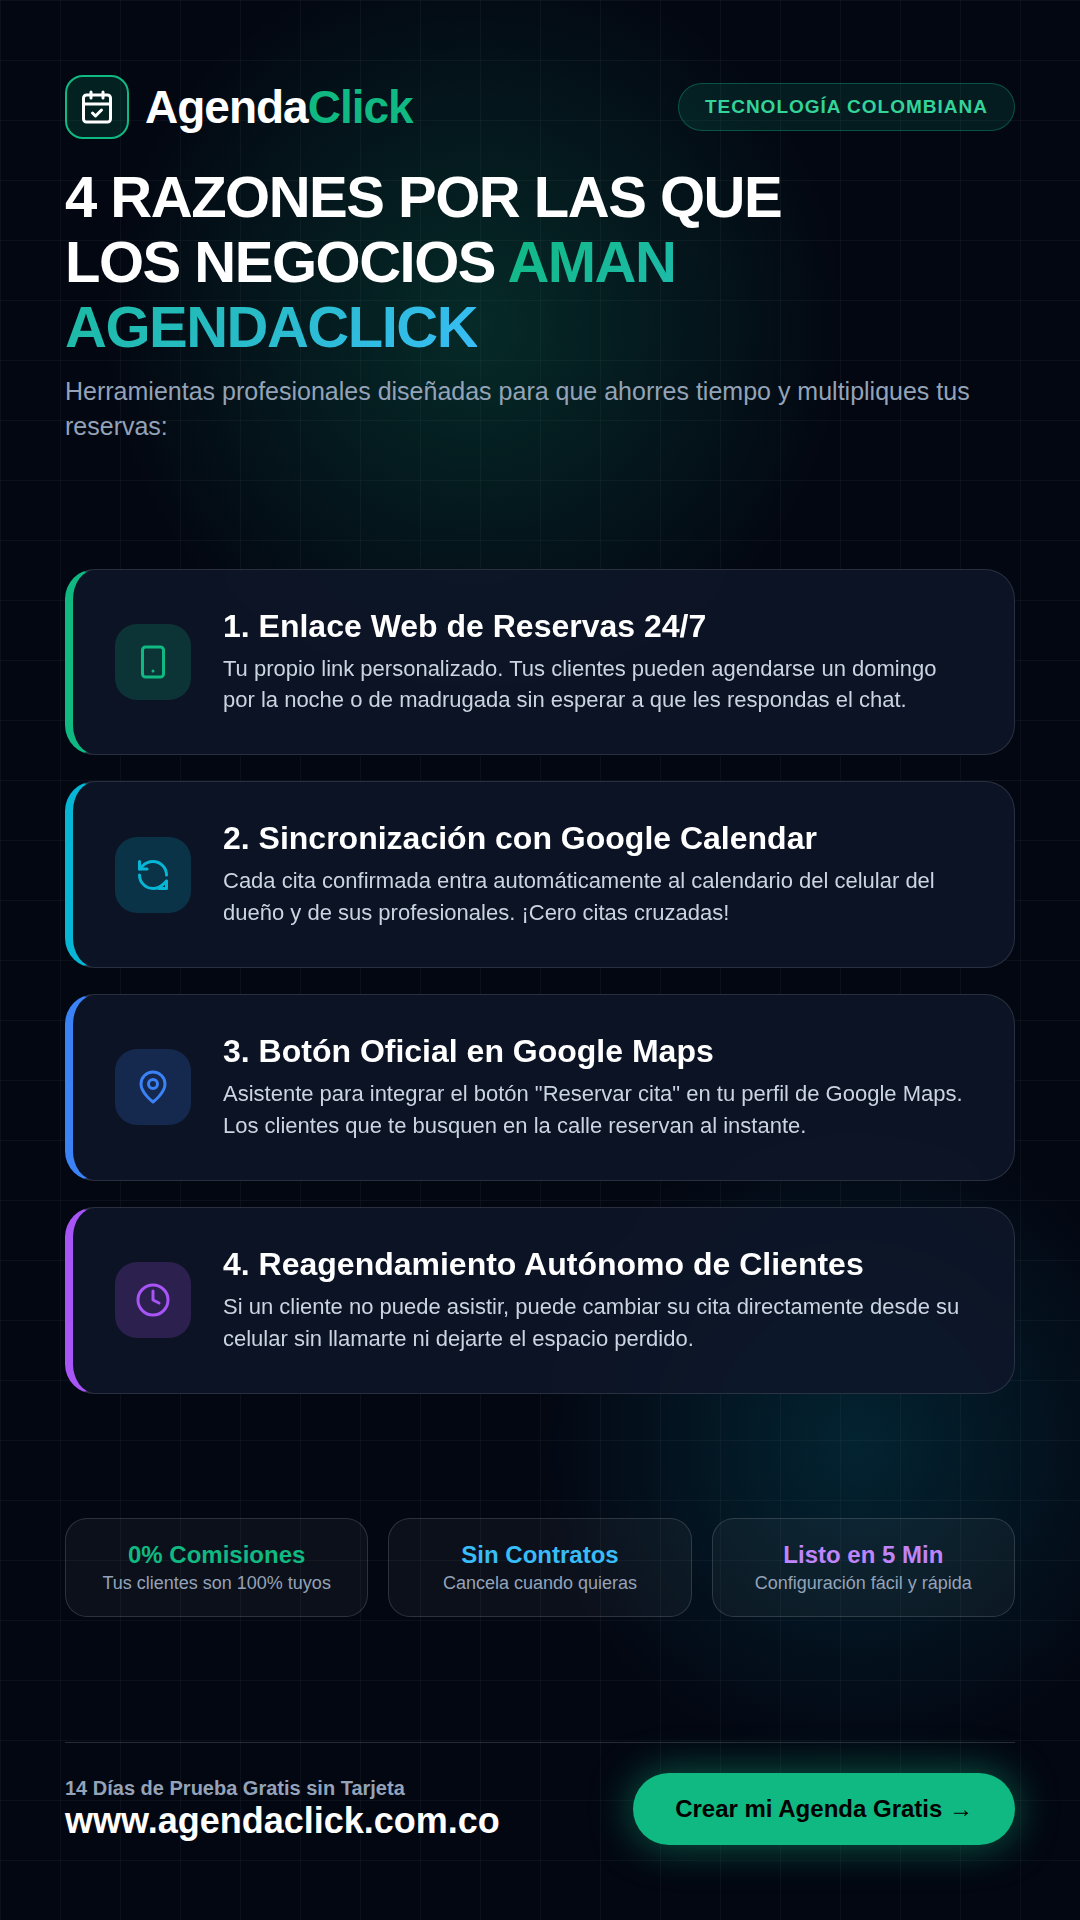
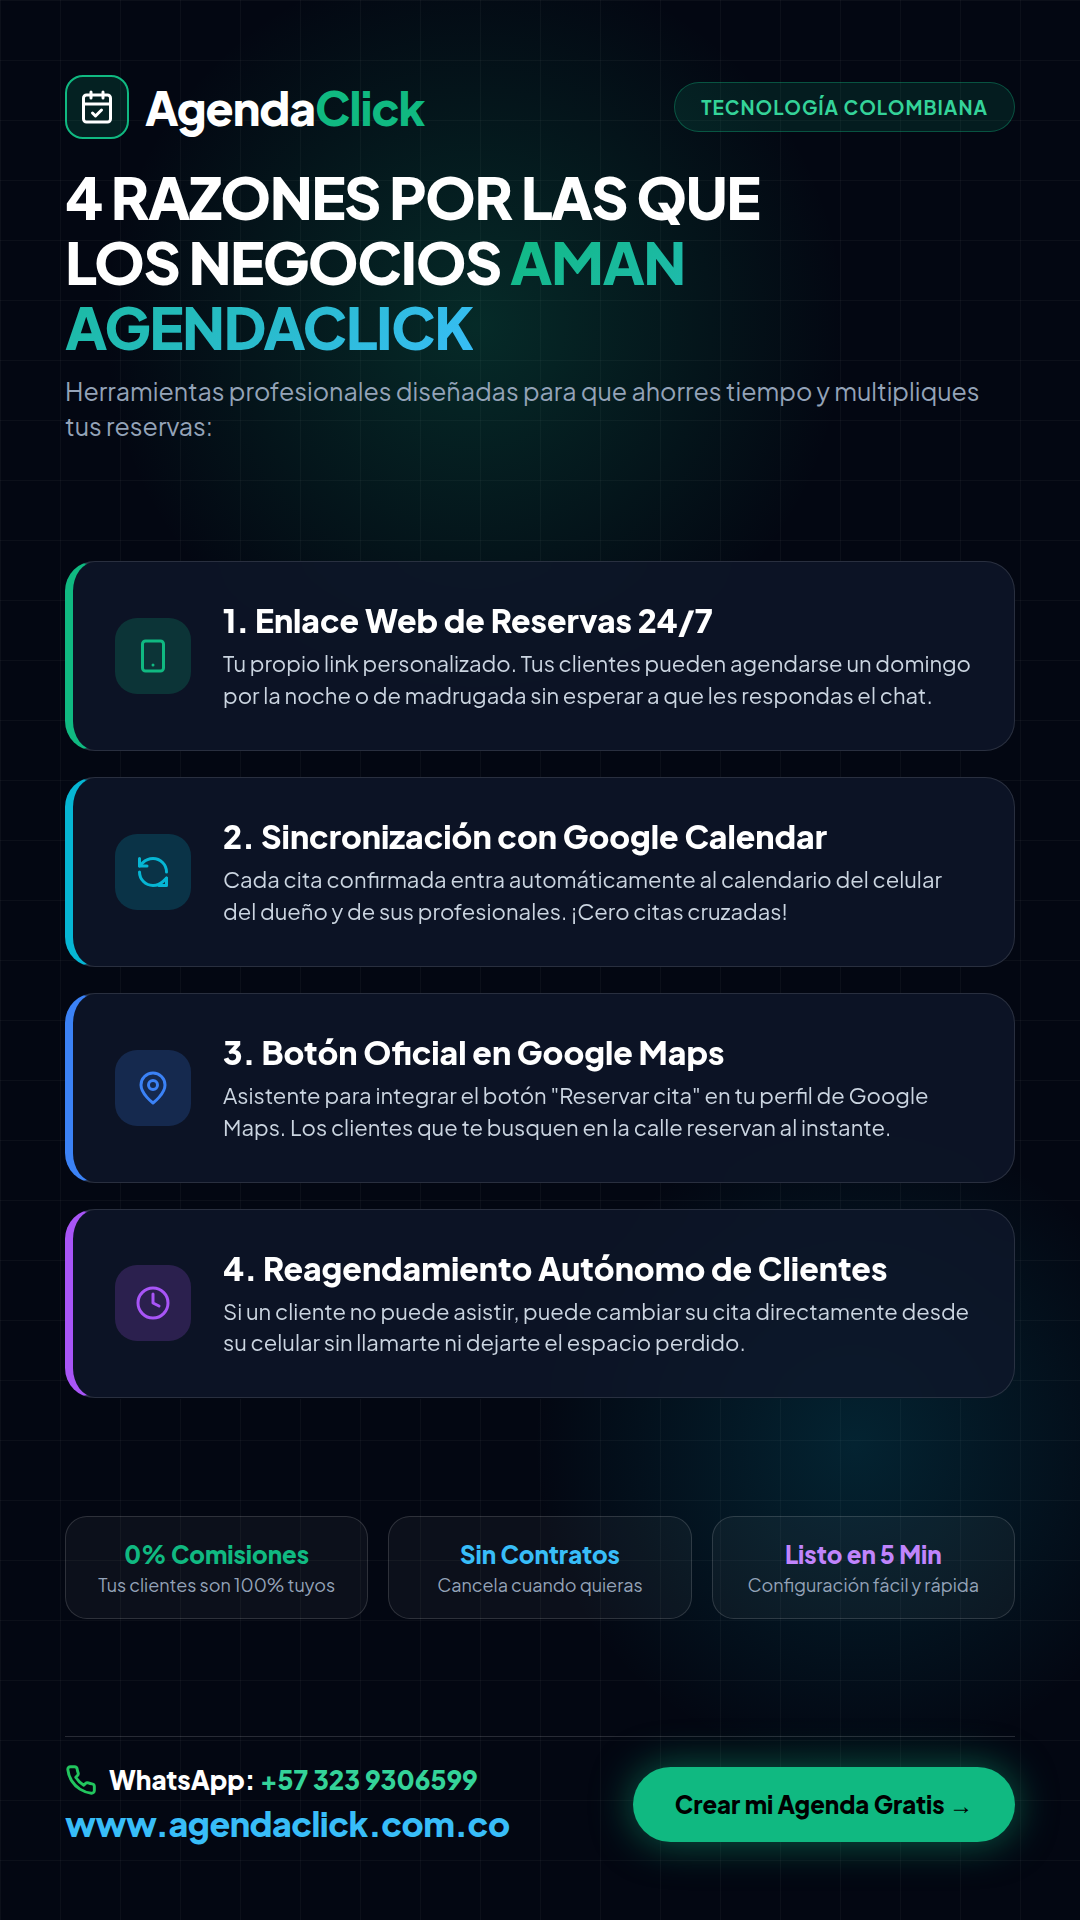
feat(marketing): actualizar imagenes promocionales con numero WhatsApp +57 323 9306599

diff --git a/scripts/generate_promo_flyers.py b/scripts/generate_promo_flyers.py
@@ -3,8 +3,10 @@ import os
 import subprocess
 import tempfile
 
-OUTPUT_DIR = "/home/rocua/Proyectos/AgendaClick/public/promos/explicacion"
-os.makedirs(OUTPUT_DIR, exist_ok=True)
+EXPLICACION_DIR = "/home/rocua/Proyectos/AgendaClick/public/promos/explicacion"
+SOCIOS_DIR = "/home/rocua/Proyectos/AgendaClick/public/promos/socios"
+os.makedirs(EXPLICACION_DIR, exist_ok=True)
+os.makedirs(SOCIOS_DIR, exist_ok=True)
 
 # Common SVG icons
 CALENDAR_SVG = """<svg xmlns="http://www.w3.org/2000/svg" width="36" height="36" viewBox="0 0 24 24" fill="none" stroke="currentColor" stroke-width="2" stroke-linecap="round" stroke-linejoin="round" class="text-emerald-400"><rect width="18" height="18" x="3" y="4" rx="2" ry="2"/><line x1="16" x2="16" y1="2" y2="6"/><line x1="8" x2="8" y1="2" y2="6"/><line x1="3" x2="21" y1="10" y2="10"/><path d="m9 16 2 2 4-4"/></svg>"""
@@ -15,6 +17,7 @@ PHONE_SVG = """<svg xmlns="http://www.w3.org/2000/svg" width="36" height="36" vi
 MAP_SVG = """<svg xmlns="http://www.w3.org/2000/svg" width="36" height="36" viewBox="0 0 24 24" fill="none" stroke="#3b82f6" stroke-width="2" stroke-linecap="round" stroke-linejoin="round"><path d="M20 10c0 6-8 12-8 12s-8-6-8-12a8 8 0 0 1 16 0Z"/><circle cx="12" cy="10" r="3"/></svg>"""
 SYNC_SVG = """<svg xmlns="http://www.w3.org/2000/svg" width="36" height="36" viewBox="0 0 24 24" fill="none" stroke="#06b6d4" stroke-width="2" stroke-linecap="round" stroke-linejoin="round"><path d="M21 12a9 9 0 0 0-9-9 9.75 9.75 0 0 0-6.74 2.74L3 8"/><path d="M3 3v5h5"/><path d="M3 12a9 9 0 0 0 9 9 9.75 9.75 0 0 0 6.74-2.74L21 16"/><path d="M16 21h5v-5"/></svg>"""
 SPARKLE_SVG = """<svg xmlns="http://www.w3.org/2000/svg" width="24" height="24" viewBox="0 0 24 24" fill="none" stroke="#10b981" stroke-width="2" stroke-linecap="round" stroke-linejoin="round"><path d="m12 3-1.912 5.813a2 2 0 0 1-1.275 1.275L3 12l5.813 1.912a2 2 0 0 1 1.275 1.275L12 21l1.912-5.813a2 2 0 0 1 1.275-1.275L21 12l-5.813-1.912a2 2 0 0 1-1.275-1.275L12 3Z"/></svg>"""
+WHATSAPP_ICON = """<svg xmlns="http://www.w3.org/2000/svg" width="32" height="32" viewBox="0 0 24 24" fill="none" stroke="#22c55e" stroke-width="2.2" stroke-linecap="round" stroke-linejoin="round"><path d="M22 16.92v3a2 2 0 0 1-2.18 2 19.79 19.79 0 0 1-8.63-3.07 19.5 19.5 0 0 1-6-6 19.79 19.79 0 0 1-3.07-8.67A2 2 0 0 1 4.11 2h3a2 2 0 0 1 2 1.72 12.84 12.84 0 0 0 .7 2.81 2 2 0 0 1-.45 2.11L8.09 9.91a16 16 0 0 0 6 6l1.27-1.27a2 2 0 0 1 2.11-.45 12.84 12.84 0 0 0 2.81.7A2 2 0 0 1 22 16.92z"/></svg>"""
 
 COMMON_HEAD = """
 <head>
@@ -91,6 +94,23 @@ COMMON_HEAD = """
   </style>
 </head>
 """
+
+def make_footer(cta_btn_text="14 Días Gratis →", url_text="www.agendaclick.com.co"):
+    return f"""
+    <!-- FOOTER CON WHATSAPP Y ENLACE -->
+    <div style="border-top: 1.5px solid rgba(255, 255, 255, 0.15); padding-top: 26px; display: flex; justify-content: space-between; align-items: center;">
+      <div>
+        <div style="display: flex; align-items: center; gap: 12px; margin-bottom: 6px;">
+          {WHATSAPP_ICON}
+          <span style="font-size: 26px; font-weight: 800; color: #ffffff;">WhatsApp: <strong style="color: #34d399;">+57 323 9306599</strong></span>
+        </div>
+        <p style="font-size: 34px; font-weight: 900; color: #38bdf8; letter-spacing: -0.5px;">{url_text}</p>
+      </div>
+      <div style="background: #10b981; color: #000000; font-size: 24px; font-weight: 900; padding: 22px 42px; border-radius: 9999px; box-shadow: 0 0 40px rgba(16,185,129,0.5);">
+        {cta_btn_text}
+      </div>
+    </div>
+    """
 
 # ==========================================
 # FLYER 1: ¿CÓMO FUNCIONA AGENDACLICK?
@@ -209,16 +229,7 @@ HTML_FLYER_1 = f"""<!DOCTYPE html>
       <div style="font-size: 38px;">⚡</div>
     </div>
 
-    <!-- FOOTER CTA -->
-    <div style="border-top: 1px solid rgba(255, 255, 255, 0.15); padding-top: 30px; display: flex; justify-content: space-between; align-items: center;">
-      <div>
-        <p style="font-size: 20px; color: #94a3b8; font-weight: 600;">14 Días de Prueba Gratis sin Tarjeta</p>
-        <p style="font-size: 36px; font-weight: 900; color: #ffffff; letter-spacing: -0.5px;">www.agendaclick.com.co</p>
-      </div>
-      <div style="background: #10b981; color: #000000; font-size: 24px; font-weight: 900; padding: 22px 42px; border-radius: 9999px; box-shadow: 0 0 40px rgba(16,185,129,0.5);">
-        Probar Gratis →
-      </div>
-    </div>
+    {make_footer("14 Días Gratis →", "www.agendaclick.com.co")}
 
   </div>
 </body>
@@ -327,7 +338,7 @@ HTML_FLYER_2 = f"""<!DOCTYPE html>
 
     </div>
 
-    <!-- MOCKUP TESTIMONIAL / BENEFICIO VISUAL -->
+    <!-- MOCKUP BENEFICIO VISUAL -->
     <div style="display: flex; gap: 20px;">
       <div class="card-glass" style="flex: 1; padding: 26px 30px; border-color: rgba(16, 185, 129, 0.4); text-align: center;">
         <p style="font-size: 38px; font-weight: 900; color: #10b981; margin-bottom: 2px;">+30%</p>
@@ -346,16 +357,7 @@ HTML_FLYER_2 = f"""<!DOCTYPE html>
       </div>
     </div>
 
-    <!-- FOOTER CTA -->
-    <div style="border-top: 1px solid rgba(255, 255, 255, 0.15); padding-top: 30px; display: flex; justify-content: space-between; align-items: center;">
-      <div>
-        <p style="font-size: 20px; color: #94a3b8; font-weight: 600;">Configuración en menos de 5 minutos</p>
-        <p style="font-size: 36px; font-weight: 900; color: #ffffff;">www.agendaclick.com.co</p>
-      </div>
-      <div style="background: #10b981; color: #000000; font-size: 24px; font-weight: 900; padding: 22px 42px; border-radius: 9999px; box-shadow: 0 0 40px rgba(16,185,129,0.5);">
-        Probar 14 Días Gratis →
-      </div>
-    </div>
+    {make_footer("Probar 14 Días Gratis →", "www.agendaclick.com.co")}
 
   </div>
 </body>
@@ -468,16 +470,7 @@ HTML_FLYER_3 = f"""<!DOCTYPE html>
       <span style="background: #10b981; color: #000; font-size: 20px; font-weight: 900; padding: 12px 26px; border-radius: 12px;">100% Online</span>
     </div>
 
-    <!-- FOOTER CTA -->
-    <div style="border-top: 1px solid rgba(255, 255, 255, 0.15); padding-top: 30px; display: flex; justify-content: space-between; align-items: center;">
-      <div>
-        <p style="font-size: 20px; color: #94a3b8; font-weight: 600;">14 Días de Prueba Gratis sin Tarjeta</p>
-        <p style="font-size: 36px; font-weight: 900; color: #ffffff;">www.agendaclick.com.co</p>
-      </div>
-      <div style="background: #10b981; color: #000000; font-size: 24px; font-weight: 900; padding: 22px 42px; border-radius: 9999px; box-shadow: 0 0 40px rgba(16,185,129,0.5);">
-        Comenzar Gratis →
-      </div>
-    </div>
+    {make_footer("Comenzar Gratis →", "www.agendaclick.com.co")}
 
   </div>
 </body>
@@ -592,16 +585,211 @@ HTML_FLYER_4 = f"""<!DOCTYPE html>
       </div>
     </div>
 
-    <!-- FOOTER CTA -->
-    <div style="border-top: 1px solid rgba(255, 255, 255, 0.15); padding-top: 30px; display: flex; justify-content: space-between; align-items: center;">
-      <div>
-        <p style="font-size: 20px; color: #94a3b8; font-weight: 600;">14 Días de Prueba Gratis sin Tarjeta</p>
-        <p style="font-size: 36px; font-weight: 900; color: #ffffff;">www.agendaclick.com.co</p>
+    {make_footer("Crear mi Agenda Gratis →", "www.agendaclick.com.co")}
+
+  </div>
+</body>
+</html>
+"""
+
+# ==========================================
+# FLYER SOCIOS 1: LA FÓRMULA DEL 70%
+# ==========================================
+HTML_SOCIOS_1 = f"""<!DOCTYPE html>
+<html>
+{COMMON_HEAD}
+<body>
+  <div class="grid-bg"></div>
+  <div class="glow-emerald" style="top: -100px; right: -150px;"></div>
+  <div class="glow-cyan" style="bottom: 250px; left: -100px;"></div>
+
+  <div style="padding: 75px 65px; height: 100%; display: flex; flex-direction: column; justify-content: space-between; position: relative; z-index: 10;">
+    
+    <!-- HEADER -->
+    <div>
+      <div style="display: flex; justify-content: space-between; align-items: center; margin-bottom: 26px;">
+        <div class="brand-title">
+          <div style="width: 64px; height: 64px; border-radius: 18px; background: rgba(16, 185, 129, 0.15); border: 2px solid #10b981; display: flex; align-items: center; justify-content: center;">
+            {CALENDAR_SVG}
+          </div>
+          <span style="font-size: 46px; font-weight: 900; letter-spacing: -1px;">Agenda<span style="color: #10b981;">Click</span></span>
+        </div>
+        <div class="badge-pill">
+          {SPARKLE_SVG}
+          Distribuidores Oficiales
+        </div>
       </div>
-      <div style="background: #10b981; color: #000000; font-size: 24px; font-weight: 900; padding: 22px 42px; border-radius: 9999px; box-shadow: 0 0 40px rgba(16,185,129,0.5);">
-        Crear mi Agenda Gratis →
+
+      <h1 style="font-size: 58px; font-weight: 900; line-height: 1.12; letter-spacing: -1.5px; margin-bottom: 14px;">
+        ¿CÓMO SE CALCULA <br>TU <span class="gradient-text">70% DE COMISIÓN?</span>
+      </h1>
+      <p style="font-size: 25px; color: #94a3b8; line-height: 1.4; max-width: 950px;">
+        Cifras reales en Pesos Colombianos. Sin multinivel ni trucos: software real que los negocios pagan mes a mes.
+      </p>
+    </div>
+
+    <!-- 3 PASOS DE LA FÓRMULA -->
+    <div style="display: flex; flex-direction: column; gap: 26px;">
+      
+      <!-- PASO 1 -->
+      <div class="card-glass" style="padding: 36px 42px; border-left: 8px solid #10b981; display: flex; align-items: center; gap: 30px;">
+        <div style="min-width: 76px; height: 76px; border-radius: 22px; background: rgba(16, 185, 129, 0.2); border: 2.5px solid #10b981; display: flex; align-items: center; justify-content: center; font-size: 36px; font-weight: 900; color: #10b981;">
+          1
+        </div>
+        <div style="flex: 1;">
+          <h3 style="font-size: 30px; font-weight: 800; color: #ffffff; margin-bottom: 6px;">Recomiendas AgendaClick</h3>
+          <p style="font-size: 21px; color: #cbd5e1; line-height: 1.45;">
+            Le regalas 14 días de prueba gratis a una peluquería, barbería, cancha sintética o consultorio de tu ciudad.
+          </p>
+        </div>
+      </div>
+
+      <!-- PASO 2 -->
+      <div class="card-glass" style="padding: 36px 42px; border-left: 8px solid #06b6d4; display: flex; align-items: center; gap: 30px;">
+        <div style="min-width: 76px; height: 76px; border-radius: 22px; background: rgba(6, 182, 212, 0.2); border: 2.5px solid #06b6d4; display: flex; align-items: center; justify-content: center; font-size: 36px; font-weight: 900; color: #06b6d4;">
+          2
+        </div>
+        <div style="flex: 1;">
+          <h3 style="font-size: 30px; font-weight: 800; color: #ffffff; margin-bottom: 6px;">El Negocio Paga su Suscripción</h3>
+          <p style="font-size: 21px; color: #cbd5e1; line-height: 1.45;">
+            El negocio paga su mensualidad de <strong style="color: #38bdf8;">$349.000 COP al mes</strong> para seguir recibiendo reservas automáticas.
+          </p>
+        </div>
+      </div>
+
+      <!-- PASO 3 -->
+      <div class="card-glass" style="padding: 36px 42px; border-left: 8px solid #a855f7; display: flex; align-items: center; gap: 30px;">
+        <div style="min-width: 76px; height: 76px; border-radius: 22px; background: rgba(168, 85, 247, 0.2); border: 2.5px solid #a855f7; display: flex; align-items: center; justify-content: center; font-size: 36px; font-weight: 900; color: #a855f7;">
+          3
+        </div>
+        <div style="flex: 1;">
+          <h3 style="font-size: 30px; font-weight: 800; color: #ffffff; margin-bottom: 6px;">¡Recibes el 70% de Comisión!</h3>
+          <p style="font-size: 21px; color: #cbd5e1; line-height: 1.45;">
+            Te corresponden <strong style="color: #34d399;">$244.300 COP mensuales</strong> por cada negocio, mientras mantenga su plan activo.
+          </p>
+        </div>
+      </div>
+
+    </div>
+
+    <!-- TARJETA DESTACADA: 5 NEGOCIOS = SUELDO RECURRENTE -->
+    <div style="background: linear-gradient(135deg, rgba(16, 185, 129, 0.2) 0%, rgba(6, 182, 212, 0.12) 100%); border: 3px solid #10b981; border-radius: 30px; padding: 36px 42px; box-shadow: 0 0 50px rgba(16,185,129,0.25);">
+      <div style="display: flex; justify-content: space-between; align-items: center; margin-bottom: 12px;">
+        <span style="font-size: 20px; font-weight: 900; text-transform: uppercase; color: #34d399; letter-spacing: 1px;">
+          Meta Real de Ingresos Pasivos
+        </span>
+        <span style="background: #10b981; color: #000; font-size: 16px; font-weight: 900; padding: 6px 16px; border-radius: 8px;">
+          RECURRENTE
+        </span>
+      </div>
+      <p style="font-size: 38px; font-weight: 900; color: #ffffff; margin-bottom: 8px;">
+        Con solo 5 negocios ganas: <span style="color: #34d399;">$1.221.500 COP/mes</span>
+      </p>
+      <p style="font-size: 21px; color: #cbd5e1;">
+        Consignaciones automáticas a Nequi, Daviplata o Cuenta Bancaria.
+      </p>
+    </div>
+
+    {make_footer("Quiero ser Distribuidor →", "agendaclick.com.co/socios")}
+
+  </div>
+</body>
+</html>
+"""
+
+# ==========================================
+# FLYER SOCIOS 2: TABLA DE INGRESOS
+# ==========================================
+HTML_SOCIOS_2 = f"""<!DOCTYPE html>
+<html>
+{COMMON_HEAD}
+<body>
+  <div class="grid-bg"></div>
+  <div class="glow-emerald" style="bottom: 100px; right: -100px;"></div>
+  <div class="glow-cyan" style="top: -100px; left: -100px;"></div>
+
+  <div style="padding: 75px 65px; height: 100%; display: flex; flex-direction: column; justify-content: space-between; position: relative; z-index: 10;">
+    
+    <!-- HEADER -->
+    <div>
+      <div style="display: flex; justify-content: space-between; align-items: center; margin-bottom: 26px;">
+        <div class="brand-title">
+          <div style="width: 64px; height: 64px; border-radius: 18px; background: rgba(16, 185, 129, 0.15); border: 2px solid #10b981; display: flex; align-items: center; justify-content: center;">
+            {CALENDAR_SVG}
+          </div>
+          <span style="font-size: 46px; font-weight: 900; letter-spacing: -1px;">Agenda<span style="color: #10b981;">Click</span></span>
+        </div>
+        <div class="badge-pill">
+          Distribuidores Comerciales
+        </div>
+      </div>
+
+      <h1 style="font-size: 56px; font-weight: 900; line-height: 1.12; letter-spacing: -1.5px; margin-bottom: 14px;">
+        TU CARTERA DE CLIENTES = <br><span class="gradient-text">TU SUELDO PASIVO MENSUAL</span>
+      </h1>
+      <p style="font-size: 25px; color: #94a3b8; line-height: 1.4;">
+        Ganas el 70% recurrente de cada negocio (<strong style="color: #34d399;">$244.300 COP/mes</strong> por cliente activo):
+      </p>
+    </div>
+
+    <!-- TABLA DE INGRESOS PASIVOS EN 4 TARJETAS -->
+    <div style="display: flex; flex-direction: column; gap: 20px;">
+      
+      <div class="card-glass" style="padding: 30px 40px; display: flex; justify-content: space-between; align-items: center; border-left: 8px solid #94a3b8;">
+        <div>
+          <p style="font-size: 30px; font-weight: 800; color: #ffffff;">3 Negocios Activos</p>
+          <p style="font-size: 18px; color: #94a3b8;">Ingreso extra para tus gastos</p>
+        </div>
+        <div style="font-size: 36px; font-weight: 900; color: #38bdf8;">
+          $732.900 COP <span style="font-size: 20px; color: #94a3b8; font-weight: 600;">/ mes</span>
+        </div>
+      </div>
+
+      <div class="card-glass" style="padding: 30px 40px; display: flex; justify-content: space-between; align-items: center; border-left: 8px solid #10b981; background: rgba(16, 185, 129, 0.12); border-color: rgba(16, 185, 129, 0.4);">
+        <div>
+          <div style="display: flex; align-items: center; gap: 12px; margin-bottom: 4px;">
+            <p style="font-size: 32px; font-weight: 900; color: #ffffff;">5 Negocios Activos</p>
+            <span style="background: #10b981; color: #000; font-size: 14px; font-weight: 900; padding: 4px 10px; border-radius: 6px;">SUELDO MENSUAL</span>
+          </div>
+          <p style="font-size: 19px; color: #cbd5e1;">Equivale a un salario mínimo mensual garantizado</p>
+        </div>
+        <div style="font-size: 40px; font-weight: 900; color: #34d399;">
+          $1.221.500 COP <span style="font-size: 20px; color: #cbd5e1; font-weight: 600;">/ mes</span>
+        </div>
+      </div>
+
+      <div class="card-glass" style="padding: 30px 40px; display: flex; justify-content: space-between; align-items: center; border-left: 8px solid #06b6d4;">
+        <div>
+          <p style="font-size: 30px; font-weight: 800; color: #ffffff;">10 Negocios Activos</p>
+          <p style="font-size: 18px; color: #94a3b8;">Libertad financiera y trabajo remoto</p>
+        </div>
+        <div style="font-size: 36px; font-weight: 900; color: #38bdf8;">
+          $2.443.000 COP <span style="font-size: 20px; color: #94a3b8; font-weight: 600;">/ mes</span>
+        </div>
+      </div>
+
+      <div class="card-glass" style="padding: 30px 40px; display: flex; justify-content: space-between; align-items: center; border-left: 8px solid #a855f7;">
+        <div>
+          <p style="font-size: 30px; font-weight: 800; color: #ffffff;">20 Negocios Activos</p>
+          <p style="font-size: 18px; color: #94a3b8;">Agencia de digitalización propia</p>
+        </div>
+        <div style="font-size: 36px; font-weight: 900; color: #c084fc;">
+          $4.886.000 COP <span style="font-size: 20px; color: #94a3b8; font-weight: 600;">/ mes</span>
+        </div>
+      </div>
+
+    </div>
+
+    <!-- TARJETA DE RECURRENCIA -->
+    <div style="background: rgba(255, 255, 255, 0.04); border: 1.5px solid rgba(255, 255, 255, 0.12); border-radius: 24px; padding: 24px 34px; display: flex; align-items: center; gap: 20px;">
+      <span style="font-size: 42px;">🔒</span>
+      <div>
+        <p style="font-size: 22px; font-weight: 800; color: #ffffff;">Ingreso 100% Recurrente</p>
+        <p style="font-size: 18px; color: #94a3b8;">El negocio renueva el software mes a mes para funcionar. Tú cobras mes a mes sin falta.</p>
       </div>
     </div>
+
+    {make_footer("Obtener mi Código →", "agendaclick.com.co/socios")}
 
   </div>
 </body>
@@ -609,14 +797,16 @@ HTML_FLYER_4 = f"""<!DOCTYPE html>
 """
 
 FLYERS = [
-    ("promo_1_como_funciona.png", HTML_FLYER_1),
-    ("promo_2_antes_vs_despues.png", HTML_FLYER_2),
-    ("promo_3_sectores_negocios.png", HTML_FLYER_3),
-    ("promo_4_funciones_clave.png", HTML_FLYER_4),
+    (os.path.join(EXPLICACION_DIR, "promo_1_como_funciona.png"), HTML_FLYER_1),
+    (os.path.join(EXPLICACION_DIR, "promo_2_antes_vs_despues.png"), HTML_FLYER_2),
+    (os.path.join(EXPLICACION_DIR, "promo_3_sectores_negocios.png"), HTML_FLYER_3),
+    (os.path.join(EXPLICACION_DIR, "promo_4_funciones_clave.png"), HTML_FLYER_4),
+    (os.path.join(SOCIOS_DIR, "promo_1_formula_70.jpg"), HTML_SOCIOS_1),
+    (os.path.join(SOCIOS_DIR, "promo_2_tabla_ingresos.jpg"), HTML_SOCIOS_2),
 ]
 
-for filename, html_content in FLYERS:
-    out_path = os.path.join(OUTPUT_DIR, filename)
+for out_path, html_content in FLYERS:
+    filename = os.path.basename(out_path)
     with tempfile.NamedTemporaryFile("w", suffix=".html", delete=False) as f:
         f.write(html_content)
         temp_html = f.name
@@ -636,4 +826,4 @@ for filename, html_content in FLYERS:
     os.remove(temp_html)
     print(f"✓ Guardado: {out_path} ({os.path.getsize(out_path)} bytes)")
 
-print("\n¡Todas las imágenes fueron renderizadas con éxito en 1080x1920 HD!")
+print("\n¡Todas las imágenes fueron renderizadas con éxito incluyendo el número +57 323 9306599!")
